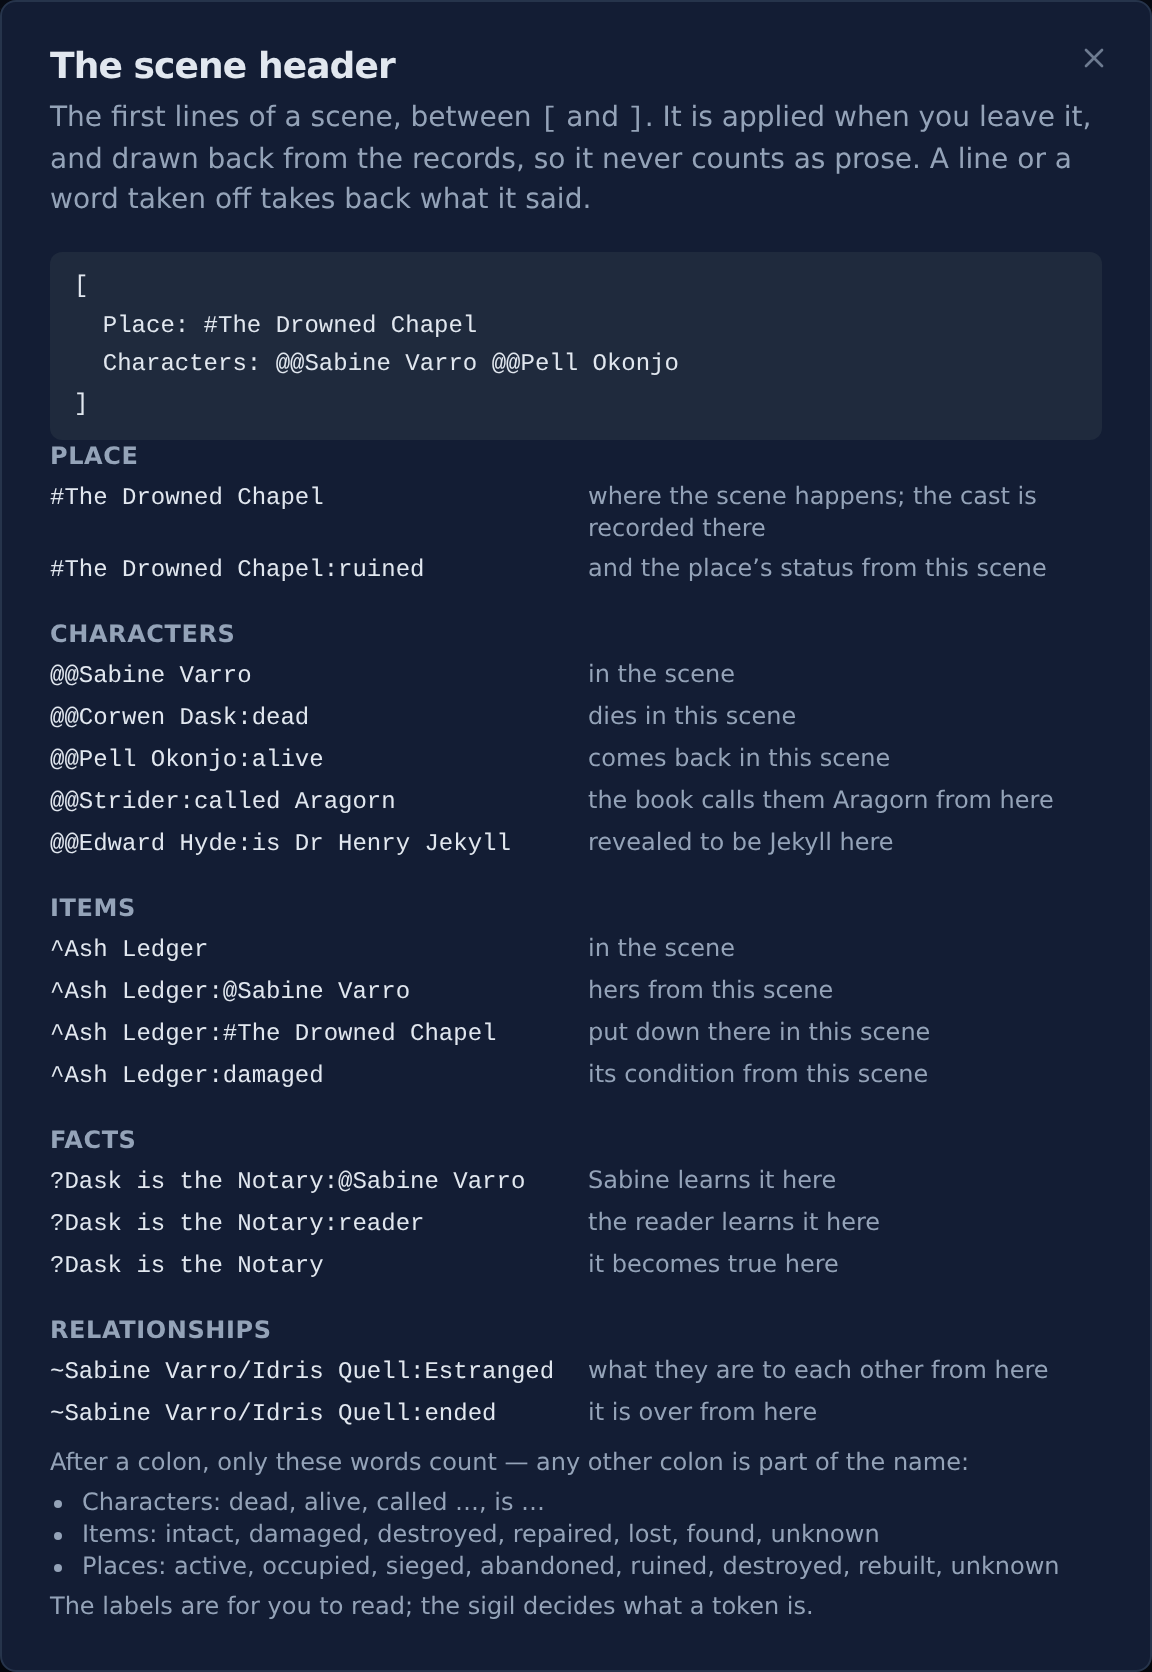
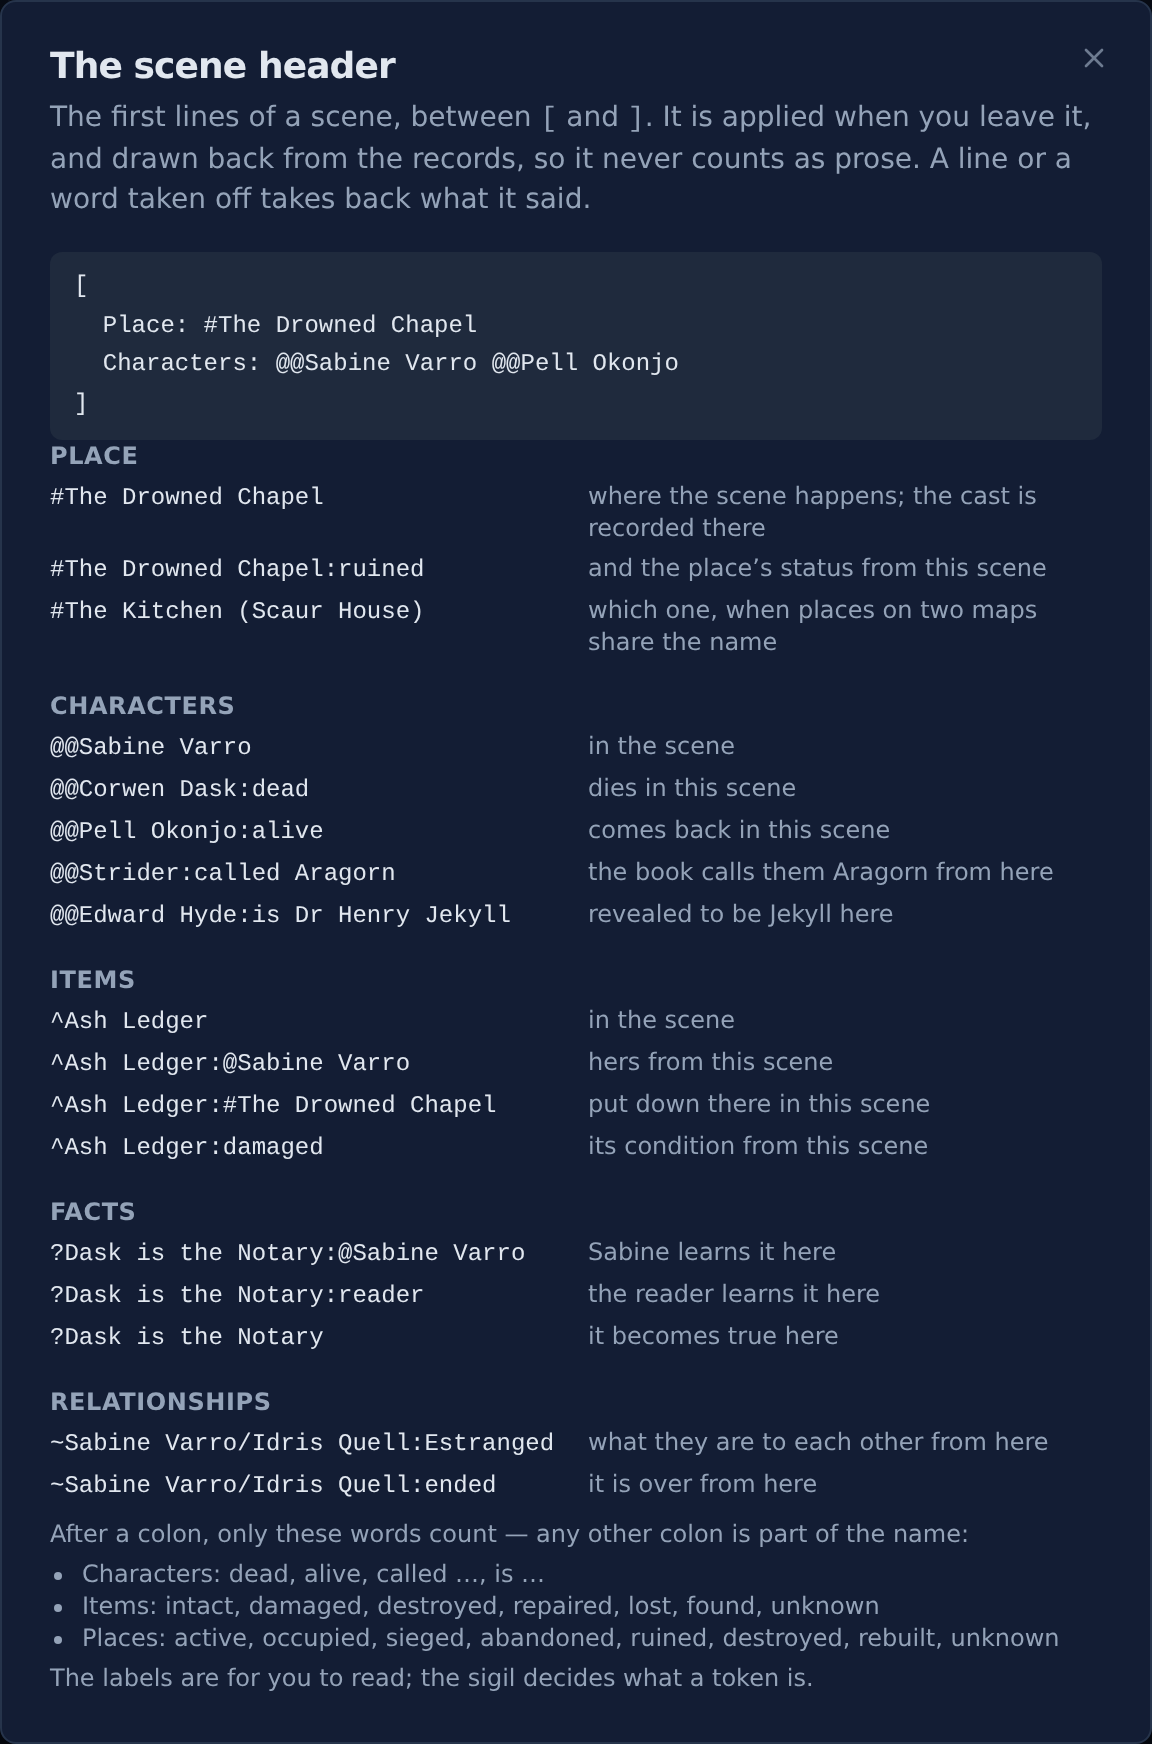
Same-name places: cheat-sheet line, guide screenshots, plan status
Claude-Session: https://claude.ai/code/session_012HJuZ3q12imk2q9iq8d945

diff --git a/src/lib/__tests__/headerSyntax.test.ts b/src/lib/__tests__/headerSyntax.test.ts
@@ -12,6 +12,8 @@ import { LOCATION_STATUSES } from '@/lib/locationStatus'
 const MEANS: Record<string, Partial<SceneHeader>> = {
   '#The Drowned Chapel': { place: 'The Drowned Chapel' },
   '#The Drowned Chapel:ruined': { place: 'The Drowned Chapel', placeStatus: 'ruined' },
+  // The name and its map, as written: which place that is, `placeNames` decides (placeNames.test.ts).
+  '#The Kitchen (Scaur House)': { place: 'The Kitchen (Scaur House)' },
   '@@Sabine Varro': { characters: ['Sabine Varro'] },
   '@@Corwen Dask:dead': { characters: ['Corwen Dask'], dead: ['Corwen Dask'] },
   '@@Pell Okonjo:alive': { characters: ['Pell Okonjo'], alive: ['Pell Okonjo'] },

diff --git a/src/lib/headerSyntax.ts b/src/lib/headerSyntax.ts
@@ -27,6 +27,7 @@ export const HEADER_SYNTAX: HeaderSyntaxLine[] = [
     rows: [
       { example: '#The Drowned Chapel', says: 'where the scene happens; the cast is recorded there' },
       { example: '#The Drowned Chapel:ruined', says: 'and the place’s status from this scene' },
+      { example: '#The Kitchen (Scaur House)', says: 'which one, when places on two maps share the name' },
     ],
   },
   {

diff --git a/docs/records/run-8-wishes-plan.md b/docs/records/run-8-wishes-plan.md
@@ -1,7 +1,7 @@
 # What writer run 8 wished for — a plan
 
-**Status:** proposed, nothing built. Five features, each its own PR, in the
-order below. Decisions the author owns are marked **Decide** and listed together
+**Status:** 1 built (same-name places). 2–5 proposed. Five features, each its
+own PR, in the order below. Decisions the author owns are marked **Decide** and listed together
 at the end.
 
 Writer run 8 wrote *Slack Water*, a full psychological thriller, inside the app.
@@ -39,9 +39,13 @@ would refuse a real book. A clash *on one map* is almost always a mistake.
   and none is the scene's own, the header note says so and lists them by map
   ("The Beacon — on Hollin Sands, on Scaur House"). Picking one sets it. This
   uses the note the header already has for unknown names.
-- **Add Location and rename warn on the same map.** "There is already a place
-  called The Beacon on this map." It is a warning, not a refusal, and it has a
-  link to the existing place.
+
+  *As built:* a shared name is written with its map in brackets,
+  `#The Kitchen (Scaur House)`, and the header draws it that way. Two places of
+  one name on the *same* map cannot be told apart in text, so for those the
+  note asks for one to be renamed instead of offering buttons.
+- **Add Location and rename warn on the same map.** "Another place on this map
+  is already called The Beacon." It is a warning, not a refusal.
 - **Maps lists a clash.** The not-on-a-map section and each map's list mark
   duplicate names.
 
